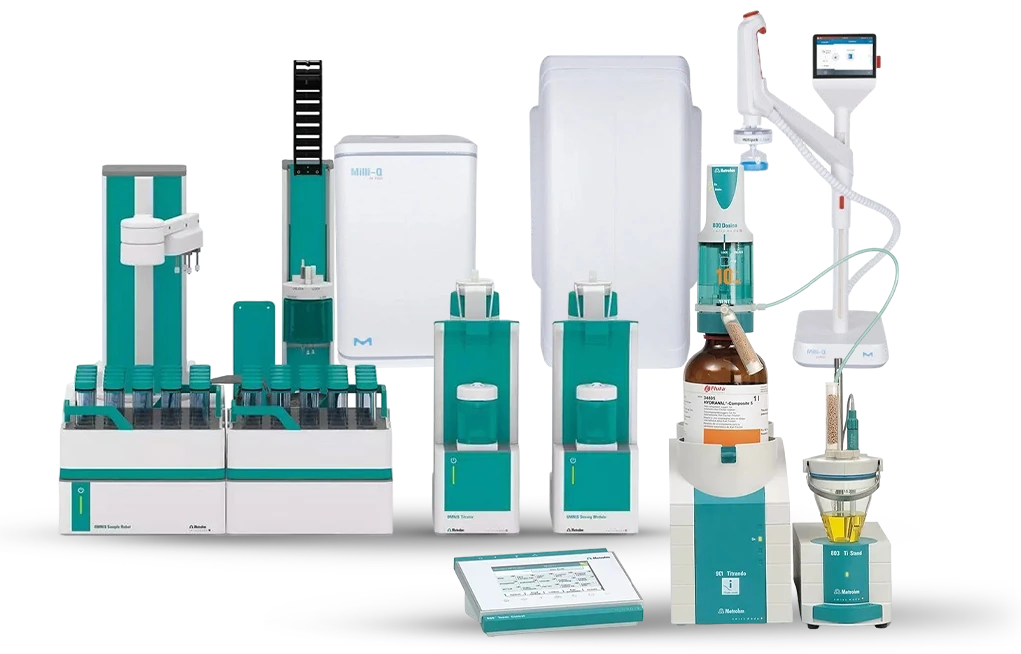
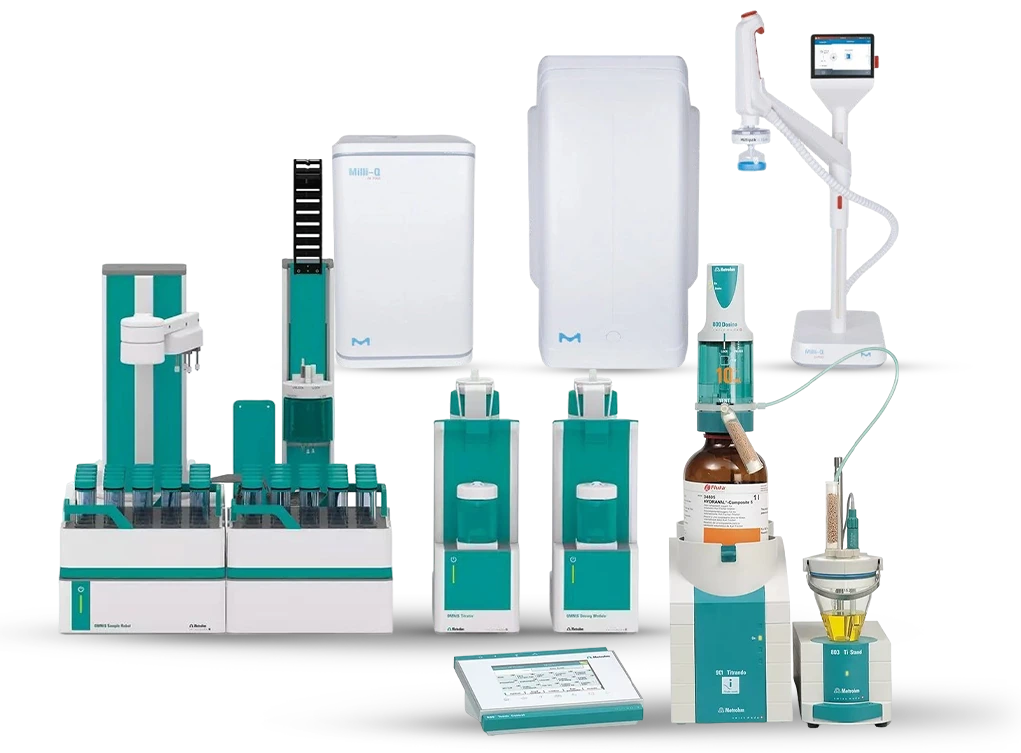
Use the new transparent hero collage and fit it inside the hero

diff --git a/public/build/assets/app-CL0WvxPk.css b/public/build/assets/app-CL0WvxPk.css
@@ -1,0 +1,1 @@
+:root{--red:#e81c1c;--red-dark:#b91414;--pink:#e46368;--pink-deep:#b8333a;--pink-soft:#fbe0e1;--navy:#222444;--royal:#1d3a72;--green:#278007;--amber:#ffbd59;--blush:#fff5f5;--tint:#ffeded;--line:#f3dada;--field-line:#d9d9e3;--ink:#2b2b2b;--muted:#556;--ink-on-dark:#e6e9f5;--radius-lg:28px;--radius-md:22px;--radius-sm:14px;--shadow:0 6px 24px #2224440f;--shadow-sm:0 4px 16px #2224440d;--shadow-red:0 12px 28px #e81c1c26}*{box-sizing:border-box}html{scroll-behavior:smooth;scroll-padding-top:96px}body{background:var(--blush);color:var(--ink);-webkit-font-smoothing:antialiased;margin:0;font-family:Plus Jakarta Sans,system-ui,sans-serif;line-height:1.5}img{max-width:100%;display:block}a{color:var(--navy);text-decoration:none}a:hover{color:var(--red)}h1,h2,h3,p{margin:0}::selection{background:var(--pink-soft);color:var(--navy)}a:focus-visible,button:focus-visible{outline:3px solid var(--navy);outline-offset:2px}.hero a:focus-visible,.hero button:focus-visible,.why a:focus-visible,.cta a:focus-visible,.foot a:focus-visible{outline-color:var(--amber)}.wrap{width:100%;max-width:1360px}.page{flex-direction:column;align-items:center;gap:24px;padding:20px 24px;display:flex}.stack{flex-direction:column;gap:24px;display:flex}.center{text-align:center}.card{border-radius:var(--radius-lg);box-shadow:var(--shadow);background:#fff}.btn{border:2px solid var(--red);cursor:pointer;border-radius:999px;justify-content:center;align-items:center;gap:8px;min-height:48px;padding:13px 28px;font-size:15px;font-weight:700;transition:transform .15s,background .15s;display:inline-flex}.btn:hover{transform:translateY(-2px)}.btn:active{transform:translateY(0)}.btn-red{background:var(--red);color:#fff}.btn-red:hover{background:var(--red-dark);color:#fff}.btn-ghost{color:var(--red);background:#fff}.btn-ghost:hover{background:var(--tint);color:var(--red-dark)}.btn-white{color:var(--red);background:#fff;border-color:#fff}.btn-white:hover{color:var(--red-dark)}.eyebrow{letter-spacing:1.5px;color:var(--red-dark);text-transform:uppercase;font-size:13px;font-weight:800}.eyebrow-gold{color:var(--amber)}.sec-title{color:var(--navy);letter-spacing:-.6px;font-size:clamp(26px,3.4vw,38px);font-weight:800;line-height:1.15}.sec-head{text-align:center;flex-direction:column;align-items:center;gap:10px;display:flex}.sec-head p{max-width:620px;color:var(--muted)}.sub{color:var(--navy);font-size:20px;font-weight:800}.chips{flex-wrap:wrap;gap:10px;margin-top:14px;display:flex}.chip{border:1px solid var(--line);color:var(--navy);background:#fff;border-radius:999px;align-items:center;gap:8px;padding:10px 18px;font-size:14px;font-weight:600;display:flex}.chip:before{content:"";background:var(--pink);border-radius:50%;width:8px;height:8px}.chip.red:before{background:var(--red)}.badge{background:var(--red-dark);color:#fff;letter-spacing:1px;border-radius:999px;padding:4px 10px;font-size:11px;font-weight:800}.grid{gap:20px;display:grid}.sec{flex-direction:column;gap:32px;padding:48px 36px;display:flex}.brand{align-items:center;gap:12px;display:flex}.hexes{gap:4px;display:flex}.hex{clip-path:polygon(50% 0,100% 25%,100% 75%,50% 100%,0 75%,0 25%);background:var(--red);color:#fff;justify-content:center;align-items:center;width:34px;height:38px;font-family:Georgia,Times New Roman,serif;font-size:16px;font-weight:700;display:flex}.hex i{clip-path:polygon(50% 0,100% 25%,100% 75%,50% 100%,0 75%,0 25%);width:30px;height:34px;color:var(--green);background:#fff;justify-content:center;align-items:center;font-style:normal;display:flex}.brand-txt{flex-direction:column;line-height:1.05;display:flex}.brand-txt b{color:var(--green);letter-spacing:.8px;font-size:12px;font-weight:800}.brand-txt span{color:var(--navy);letter-spacing:1.4px;font-size:10px;font-weight:700}header.top{flex-wrap:wrap;justify-content:space-between;align-items:center;gap:16px;padding:14px 28px;display:flex}nav.main{flex-wrap:wrap;gap:6px 30px;font-size:14px;font-weight:600;display:flex}nav.main a{border-bottom:2px solid #0000;padding:8px 0;transition:border-color .15s,color .15s}nav.main a:hover{border-color:var(--pink)}nav.main a[aria-current]{color:var(--red-dark);border-color:var(--red)}.menu-btn{background:var(--tint);cursor:pointer;width:44px;height:44px;color:var(--navy);border:0;border-radius:12px;justify-content:center;align-items:center;display:none}.menu-btn .i-close,.menu-btn[aria-expanded=true] .i-open{display:none}.menu-btn[aria-expanded=true] .i-close{display:block}footer.foot{background:var(--navy);color:var(--ink-on-dark);border-radius:var(--radius-lg);flex-direction:column;gap:30px;padding:44px 36px 24px;display:flex}.foot-grid{grid-template-columns:repeat(auto-fit,minmax(220px,1fr));gap:32px;display:grid}.foot h4{color:#fff;margin:0 0 12px;font-size:15px}.foot a{color:var(--ink-on-dark)}.foot a:hover{color:var(--amber)}.foot ul{flex-direction:column;gap:8px;margin:0;padding:0;font-size:14px;list-style:none;display:flex}.foot .about{max-width:320px;margin-top:12px;font-size:14px}.foot .hex i{background:#fff}.copy{border-top:1px solid #ffffff24;flex-wrap:wrap;justify-content:space-between;gap:10px;padding-top:18px;font-size:13px;display:flex}.hero{border-radius:var(--radius-lg);min-height:560px;color:var(--ink);box-shadow:var(--shadow);background:#fff;grid-template-columns:minmax(0,1.05fr) minmax(0,.95fr);align-items:center;gap:24px;padding:56px;display:grid;position:relative;overflow:hidden}.hero-in{z-index:1;flex-direction:column;gap:22px;max-width:620px;display:flex;position:relative}.hero h1{letter-spacing:-1.5px;color:var(--navy);font-size:clamp(38px,5.2vw,60px);font-weight:800;line-height:1.04}.hero p{max-width:540px;color:var(--ink);font-size:19px}.hero-cta{flex-wrap:wrap;gap:14px;display:flex}.hero-dealer{width:min(320px,100%);height:auto;margin-top:6px}.hero-art{background:url(/images/hero/hero-shape.svg) 100%/contain no-repeat;align-self:stretch;min-height:460px;margin:-56px -56px -56px 0;position:relative}.hero-art img{max-width:none;position:absolute}.art-hero{filter:drop-shadow(0 18px 22px #2224444d);width:104%;height:auto;bottom:8%;left:-8%}.cats{grid-template-columns:repeat(auto-fit,minmax(240px,1fr))}.cat{border:1px solid var(--line);border-radius:var(--radius-md);box-shadow:var(--shadow-sm);color:var(--ink);background:#fff;flex-direction:column;transition:transform .2s,box-shadow .2s,border-color .2s;display:flex;overflow:hidden}.cat:hover{box-shadow:var(--shadow-red);border-color:var(--pink);color:var(--ink);transform:translateY(-4px)}.cat .ph{background:var(--tint);height:170px}.cat .ph img{object-fit:cover;width:100%;height:100%}.cat .tx{flex-direction:column;flex:1;gap:8px;padding:20px;display:flex}.cat h3{color:var(--navy);font-size:19px;font-weight:700}.cat p{color:var(--muted);font-size:14px}.cat .more{color:var(--red-dark);align-items:center;gap:6px;margin-top:auto;padding-top:6px;font-size:14px;font-weight:700;display:flex}.apps{background:linear-gradient(135deg,#fff 0%,var(--tint) 100%)}.app-layout{grid-template-columns:minmax(0,1.9fr) minmax(280px,1fr);align-items:stretch;gap:28px;display:grid}.app-grid{grid-template-columns:repeat(auto-fit,minmax(210px,1fr));gap:16px;margin:16px 0 0;padding:0;list-style:none;display:grid}.app-card{border:1px solid var(--line);box-shadow:var(--shadow-sm);background:#fff;border-radius:20px;flex-direction:column;gap:8px;padding:22px;transition:transform .2s,border-color .2s,box-shadow .2s;display:flex}.app-card:hover{border-color:var(--pink);box-shadow:var(--shadow-red);transform:translateY(-3px)}.app-ic{background:var(--pink-soft);width:52px;height:52px;color:var(--red);border-radius:16px;justify-content:center;align-items:center;margin-bottom:6px;display:flex}.app-card h4{color:var(--navy);margin:0;font-size:17px;font-weight:700;line-height:1.25}.app-card p{color:var(--muted);font-size:14px}.ind-panel{background:linear-gradient(160deg,var(--navy) 0%,var(--royal) 100%);color:#fff;border-radius:var(--radius-md);flex-direction:column;gap:18px;padding:30px 26px;display:flex}.ind-panel h3{color:#fff;font-size:20px;font-weight:800}.ind-list{flex-direction:column;flex:1;margin:0;padding:0;list-style:none;display:flex}.ind-list li{border-bottom:1px solid #ffffff24;align-items:center;gap:14px;padding:13px 0;font-size:15px;font-weight:600;display:flex}.ind-list li:last-child{border-bottom:0}.ind-list svg{color:var(--amber);flex:none}.ind-panel .btn{align-self:flex-start}.marquee{overflow:hidden;-webkit-mask-image:linear-gradient(90deg,#0000,#000 8% 92%,#0000);mask-image:linear-gradient(90deg,#0000,#000 8% 92%,#0000)}.marquee-track{align-items:center;width:max-content;margin:0;padding:0;list-style:none;display:flex}.marquee-track li{flex:none;align-items:center;margin-right:72px;display:flex}.marquee-track.marquee-static{flex-wrap:wrap;justify-content:center;gap:24px 0;width:auto}.marquee-track img{width:auto;max-width:none;height:52px}.marquee.is-scrolling .marquee-track{animation:40s linear infinite marquee}.marquee.is-scrolling:hover .marquee-track,.marquee.is-scrolling:focus-within .marquee-track{animation-play-state:paused}@keyframes marquee{to{transform:translate(-50%)}}.why{background:linear-gradient(120deg,var(--navy) 0%,var(--royal) 100%);color:#fff}.why .sec-title{color:#fff}.why .sec-head p{color:var(--ink-on-dark)}.why-grid{grid-template-columns:repeat(auto-fit,minmax(200px,1fr))}.why-item{background:#ffffff14;border:1px solid #ffffff29;border-radius:20px;flex-direction:column;gap:10px;padding:24px;display:flex}.why-item svg{stroke:var(--amber)}.why-item h3{font-size:17px;font-weight:700}.why-item p{color:var(--ink-on-dark);font-size:14px}.hist{grid-template-columns:repeat(auto-fit,minmax(320px,1fr));align-items:center;gap:40px;display:grid}.hist img{border-radius:var(--radius-md);object-fit:cover;width:100%;max-height:420px}.hist .txt{flex-direction:column;gap:16px;display:flex}.hist p{color:var(--ink);font-size:16px;line-height:1.7}.stats{flex-wrap:wrap;gap:28px;margin-top:6px;display:flex}.stat b{color:var(--red);font-size:38px;font-weight:800;line-height:1.1;display:block}.stat span{color:var(--muted);font-size:14px}.cta{background:linear-gradient(110deg,var(--red) 0%,var(--red-dark) 100%);color:#fff;border-radius:var(--radius-lg);flex-wrap:wrap;justify-content:space-between;align-items:center;gap:24px;padding:44px 48px;display:flex}.cta h2{font-size:clamp(24px,3vw,32px);font-weight:800}.cta p{max-width:520px;margin-top:6px}.cta-actions{flex-wrap:wrap;gap:14px;display:flex}.cta .btn-ghost{color:#fff;background:0 0;border-color:#fff}.cta .btn-ghost:hover{color:var(--red-dark);background:#fff}.page-hero{border-radius:var(--radius-lg);background:linear-gradient(135deg,#fff 0%,var(--tint) 100%);box-shadow:var(--shadow);flex-direction:column;gap:14px;padding:56px 48px;display:flex}.page-hero h1{color:var(--navy);letter-spacing:-1.2px;font-size:clamp(34px,5vw,54px);font-weight:800;line-height:1.08}.page-hero p{max-width:640px;color:var(--ink);font-size:18px}.crumb{color:var(--pink-deep);font-size:13px;font-weight:700}.vm{grid-template-columns:repeat(auto-fit,minmax(300px,1fr));gap:20px;display:grid}.vm>div{border:1px solid var(--line);border-radius:var(--radius-md);background:#fff;flex-direction:column;gap:10px;padding:28px;display:flex}.vm h3{letter-spacing:1.5px;color:var(--red-dark);font-size:13px;font-weight:800}.vm p{line-height:1.7}.values{grid-template-columns:repeat(3,minmax(0,1fr));gap:16px;margin:0;padding:0;list-style:none;display:grid}.values>li{background:var(--blush);border:1px solid var(--line);border-radius:18px;flex-direction:column;gap:8px;padding:22px;display:flex}.values b{color:var(--navy);font-size:18px;font-weight:800}.values span{color:var(--muted);font-size:14px;line-height:1.6}.split{grid-template-columns:repeat(auto-fit,minmax(300px,1fr));align-items:center;gap:36px;display:grid}.split img{border-radius:var(--radius-md);object-fit:cover;width:100%;max-height:440px}.split p{margin-bottom:14px;line-height:1.75}.psec{grid-template-columns:minmax(0,1fr) minmax(0,1.1fr);align-items:center;gap:36px;display:grid}.psec.rev>:first-child{order:2}.psec img{border-radius:var(--radius-md);object-fit:cover;background:var(--tint);width:100%;height:300px}.psec h2{color:var(--navy);letter-spacing:-.5px;margin-bottom:10px;font-size:30px;font-weight:800}.psec p{color:var(--ink);margin-bottom:14px;line-height:1.7}.ticks{flex-direction:column;gap:6px;margin:0 0 18px;padding:0;font-size:15px;list-style:none;display:flex}.ticks li:before{content:"";background:var(--pink);border-radius:50%;width:8px;height:8px;margin-right:10px;display:inline-block}.cgrid{grid-template-columns:repeat(auto-fit,minmax(280px,1fr));align-items:start;gap:24px;display:grid}.cinfo{flex-direction:column;gap:16px;display:flex}.crow{background:var(--blush);border-radius:18px;align-items:flex-start;gap:16px;padding:18px;display:flex}.crow .ic{background:var(--pink-soft);border-radius:50%;flex:none;justify-content:center;align-items:center;width:46px;height:46px;display:flex}.crow b{color:var(--navy);display:block}.crow span,.crow a{font-size:15px}form.quote{flex-direction:column;gap:16px;display:flex}.field{flex-direction:column;gap:6px;display:flex}.field label{color:var(--navy);font-size:13px;font-weight:700}.field input,.field select,.field textarea{font:inherit;border:1px solid var(--field-line);border-radius:var(--radius-sm);color:var(--ink);background:#fff;width:100%;padding:12px 14px;font-size:15px}.field textarea{resize:vertical;min-height:130px}.field input:focus,.field select:focus,.field textarea:focus{outline:3px solid var(--navy);outline-offset:1px;border-color:var(--red)}.row2{grid-template-columns:repeat(auto-fit,minmax(200px,1fr));gap:16px;display:grid}.mapbox{border-radius:var(--radius-md);border:1px solid var(--line);min-height:260px;overflow:hidden}.mapbox iframe{border:0;width:100%;height:100%;min-height:260px}.split .sec-title{margin:8px 0 16px}.links-row{flex-wrap:wrap;gap:12px;margin-top:6px;display:flex}.facts{gap:14px;margin:0;padding:0;list-style:none;display:grid}.facts li{background:var(--blush);border:1px solid var(--line);border-radius:20px;flex-direction:column;gap:2px;padding:20px 22px;display:flex}.facts b{color:var(--red);font-size:28px;font-weight:800;line-height:1.15}.facts span{color:var(--muted);font-size:14px}.figure{margin:0}.figure img{object-fit:contain;border-radius:var(--radius-md);width:auto;max-width:100%;height:auto;max-height:640px;margin-inline:auto}.figure figcaption{color:var(--muted);text-align:center;margin-top:10px;font-size:13px}.timeline{border-left:2px solid var(--pink-soft);flex-direction:column;gap:20px;margin:20px 0 0;padding:0 0 0 22px;list-style:none;display:flex}.timeline li{flex-direction:column;gap:2px;display:flex;position:relative}.timeline li:before{content:"";background:var(--red);width:12px;height:12px;box-shadow:0 0 0 4px var(--pink-soft);border-radius:50%;position:absolute;top:6px;left:-29px}.timeline b{color:var(--navy);font-size:18px;font-weight:800}.timeline span{color:var(--ink);font-size:15px}.caps{grid-template-columns:repeat(auto-fit,minmax(240px,1fr));gap:20px;margin:0;padding:0;list-style:none;display:grid}.cap{border:1px solid var(--line);box-shadow:var(--shadow-sm);background:#fff;border-radius:20px;flex-direction:column;gap:10px;padding:24px;display:flex}.cap-ic{background:var(--pink-soft);width:52px;height:52px;color:var(--red);border-radius:16px;justify-content:center;align-items:center;display:flex}.cap h3{color:var(--navy);font-size:18px;font-weight:700;line-height:1.25}.cap p{color:var(--muted);font-size:14px}.logo-grid{grid-template-columns:repeat(auto-fit,minmax(170px,1fr));gap:14px;margin:0;padding:0;list-style:none;display:grid}.logo-grid li{border:1px solid var(--line);background:#fff;border-radius:18px;justify-content:center;align-items:center;min-height:96px;padding:18px;display:flex}.logo-grid img{width:auto;max-width:100%;height:auto;max-height:44px}.commit{background:linear-gradient(135deg,#fff 0%,var(--tint) 100%)}.commit .sec-head p{max-width:720px;color:var(--ink);font-size:18px}.visually-hidden{clip:rect(0,0,0,0);white-space:nowrap;border:0;width:1px;height:1px;margin:-1px;padding:0;position:absolute;overflow:hidden}.toolbar{flex-direction:column;gap:16px;width:100%;max-width:900px;margin-inline:auto;display:flex}.search-box{border:1px solid var(--field-line);height:54px;color:var(--muted);background:#fff;border-radius:999px;align-items:center;gap:10px;padding:0 20px;display:flex}.search-box:focus-within{border-color:var(--red);outline:3px solid var(--navy);outline-offset:2px}.search-box input{min-width:0;font:inherit;color:var(--ink);background:0 0;border:0;outline:0;flex:1;font-size:16px}.chip-row{flex-wrap:wrap;justify-content:center;gap:10px;display:flex}.filter-chip{border:1px solid var(--line);color:var(--navy);font:inherit;cursor:pointer;background:#fff;border-radius:999px;min-height:44px;padding:10px 18px;font-size:14px;font-weight:600;transition:background .15s,color .15s,border-color .15s}.filter-chip:hover{border-color:var(--pink);background:var(--tint)}.filter-chip[aria-pressed=true]{background:var(--red);border-color:var(--red);color:#fff}.status{text-align:center;color:var(--muted);min-height:1.4em;font-size:14px}.empty{text-align:center;color:var(--muted);padding:12px}[hidden]{display:none!important}.cat-grid{grid-template-columns:repeat(auto-fit,minmax(300px,1fr))}.pcat{border:1px solid var(--line);border-radius:var(--radius-md);box-shadow:var(--shadow-sm);background:#fff;flex-direction:column;display:flex;overflow:hidden}.pcat .ph{background:var(--tint);height:190px}.pcat .ph img{object-fit:cover;width:100%;height:100%}.pcat .tx{flex-direction:column;flex:1;gap:12px;padding:22px;display:flex}.pcat h3{color:var(--navy);font-size:21px;font-weight:800}.pcat p{color:var(--ink);font-size:15px}.pcat .uses{color:var(--muted);font-size:14px}.pcat .uses b{color:var(--navy)}.pcat .btn{align-self:flex-start;margin-top:auto}.acard-grid{grid-template-columns:repeat(auto-fit,minmax(280px,1fr))}.icard-grid{grid-template-columns:repeat(auto-fit,minmax(300px,1fr))}.acard,.icard{border:1px solid var(--line);box-shadow:var(--shadow-sm);background:#fff;border-radius:20px;flex-direction:column;gap:10px;padding:24px;transition:transform .2s,border-color .2s,box-shadow .2s;display:flex}.acard:hover,.icard:hover{border-color:var(--pink);box-shadow:var(--shadow-red);transform:translateY(-3px)}.acard h3,.icard h3{color:var(--navy);font-size:18px;font-weight:700;line-height:1.25}.acard p,.icard p{color:var(--muted);font-size:14px;line-height:1.6}.tags{flex-wrap:wrap;gap:8px;margin:2px 0 4px;padding:0;list-style:none;display:flex}.tags a{background:var(--pink-soft);color:var(--navy);border-radius:999px;padding:5px 12px;font-size:12px;font-weight:700;display:inline-block}.tags a:hover{background:var(--red);color:#fff}.acard .more,.icard .more{color:var(--red-dark);align-items:center;gap:6px;margin-top:auto;padding-top:6px;font-size:14px;font-weight:700;display:flex}.acard .more:hover,.icard .more:hover{color:var(--red)}.pcat,.acard,.icard{scroll-margin-top:96px}.contact-cards{grid-template-columns:repeat(auto-fit,minmax(250px,1fr));gap:16px;margin:0;padding:0;list-style:none;display:grid}.contact-cards .crow{background:var(--blush);border:1px solid var(--line);border-radius:20px;padding:22px}.contact-cards .crow b{color:var(--navy);margin-bottom:2px;display:block}.contact-cards .crow a,.contact-cards .crow address{color:var(--ink);word-break:break-word;font-size:15px;font-style:normal}.contact-cards .crow a{color:var(--red-dark);font-weight:600}.contact-cards .crow address{margin-bottom:6px;display:block}.enquiry-form{width:100%;max-width:860px;margin-inline:auto}.req{color:var(--red-dark);font-weight:800}.hp{width:1px;height:1px;position:absolute;left:-10000px;overflow:hidden}.field .err{color:var(--red-dark);font-size:13px;font-weight:600}.field input[aria-invalid=true],.field select[aria-invalid=true],.field textarea[aria-invalid=true]{border-color:var(--red-dark);background:#fff5f5}.check{color:var(--ink);cursor:pointer;align-items:flex-start;gap:12px;font-size:14px;font-weight:500;display:flex}.check input{width:22px;height:22px;accent-color:var(--red);flex:none;margin-top:1px}.check a{color:var(--red-dark);font-weight:700;text-decoration:underline}.fine{color:var(--muted);font-size:13px}.alert{border-radius:18px;flex-direction:column;gap:6px;width:100%;max-width:860px;margin-inline:auto;padding:18px 22px;font-size:15px;display:flex}.alert ul{margin:4px 0 0;padding-left:20px}.alert-success{border:1px solid var(--green);color:#1b4f06;background:#eaf6e5}.alert-error{background:var(--blush);border:1px solid var(--red-dark);color:#7a0d0d}.alert:focus{outline:3px solid var(--navy);outline-offset:2px}.prose{flex-direction:column;gap:14px;max-width:760px;margin-inline:auto;line-height:1.7;display:flex}.prose ul{flex-direction:column;gap:8px;margin:0;padding-left:22px;display:flex}.prose a{color:var(--red-dark);font-weight:700}.contact-layout{grid-template-columns:minmax(280px,1fr) minmax(0,1.7fr);align-items:start;gap:36px;display:grid}.sec-head.left{text-align:left;align-items:flex-start}.form-col{flex-direction:column;gap:24px;min-width:0;display:flex}.form-col .enquiry-form,.form-col .alert{max-width:none;margin-inline:0}.details-col{flex-direction:column;order:-1;gap:20px;display:flex}.details-col h2{color:var(--navy);font-size:22px;font-weight:800}.details-col .contact-cards{grid-template-columns:1fr;gap:24px}.details-col .contact-cards .crow{background:0 0;border:0;border-radius:0;padding:0}@media (width<=860px){.contact-layout{grid-template-columns:1fr}.details-col{order:0}.values{grid-template-columns:repeat(2,minmax(0,1fr))}.app-layout{grid-template-columns:1fr}.menu-btn{margin-left:auto;display:flex}header.top{position:static}nav.main{opacity:0;visibility:hidden;flex-direction:column;order:3;gap:0;width:100%;max-height:0;transition:max-height .25s,opacity .2s,visibility 0s linear .25s;overflow:hidden}nav.main.open{opacity:1;visibility:visible;max-height:420px;transition:max-height .25s,opacity .2s,visibility}nav.main a{border-bottom:1px solid var(--line);padding:12px 4px}header.top .top-quote{display:none}nav.main .nav-quote{color:#fff;border-bottom:0;justify-content:center;margin:14px 0 4px;padding:14px 20px;display:flex}.hero{grid-template-columns:1fr;gap:8px;min-height:0;padding:36px 24px 0}.hero-art{background-position:100% 100%;min-height:300px;margin:0 -24px}.art-hero{width:96%;bottom:6%;left:2%}.sec{padding:36px 20px}.cta{padding:32px 24px}.psec{grid-template-columns:1fr}.psec.rev>:first-child{order:0}.page-hero{padding:36px 24px}}@media (width<=480px){.values{grid-template-columns:1fr}.app-grid{grid-template-columns:repeat(2,minmax(0,1fr));gap:12px}.app-card{padding:16px}.app-card h4{font-size:15px}.app-card p{font-size:13px}.page{padding:12px}header.top{padding:12px 16px}header.top .brand img{height:24px}.hero p{font-size:17px}}.mbar{display:none}.to-top{z-index:30;background:var(--red);color:#fff;cursor:pointer;width:48px;height:48px;box-shadow:var(--shadow-red);opacity:0;visibility:hidden;border:0;border-radius:50%;justify-content:center;align-items:center;transition:opacity .2s,transform .2s,visibility 0s linear .2s;display:flex;position:fixed;bottom:20px;right:20px;transform:translateY(12px)}.to-top.show{opacity:1;visibility:visible;transition:opacity .2s,transform .2s,visibility;transform:none}.to-top:hover{background:var(--red-dark)}.reveal{opacity:0;transition:opacity .6s,transform .6s;transform:translateY(24px)}.reveal.in{opacity:1;transform:none}@media (width<=860px){body{padding-bottom:76px}.mbar{z-index:40;padding:10px 12px calc(10px + env(safe-area-inset-bottom));background:#fff;gap:10px;display:flex;position:fixed;bottom:0;left:0;right:0;box-shadow:0 -6px 20px #2224441f}.mbar a{border-radius:999px;flex:1;justify-content:center;align-items:center;gap:8px;min-height:48px;font-size:15px;font-weight:700;display:flex}.mbar-call{border:2px solid var(--navy);color:var(--navy);flex:0 0 34%}.mbar-quote{background:var(--red);color:#fff;border:2px solid var(--red)}.mbar-quote:hover{background:var(--red-dark);color:#fff}.to-top{bottom:90px;right:14px}}@media (prefers-reduced-motion:reduce){html{scroll-behavior:auto}.btn,.cat,.app-card,nav.main,nav.main a,.to-top{transition:none}.reveal{opacity:1;transition:none;transform:none}.marquee.is-scrolling .marquee-track{animation:none}}.dealer-grid{grid-template-columns:repeat(auto-fit,minmax(280px,1fr))}.dealer-card{border:1px solid var(--line);border-radius:var(--radius-md);box-shadow:var(--shadow-sm);background:#fff;flex-direction:column;align-items:flex-start;gap:14px;padding:26px;display:flex}.dealer-card img{width:auto;height:52px}.dealer-card p{color:var(--muted);font-size:15px}.dealer-card .btn{margin-top:auto}.maker-h{margin:24px 0 12px}.maker-link{margin:16px 0 0;font-size:14px;font-weight:700}.maker-grid .cat .ph{background:#fff}.maker-grid{grid-template-columns:repeat(4,1fr)}@media (width<=1000px){.maker-grid{grid-template-columns:repeat(2,1fr)}}@media (width<=560px){.maker-grid{grid-template-columns:1fr}}.client-marquee .marquee-track li{border:1px solid var(--line);border-radius:var(--radius-sm);background:#fff;justify-content:center;min-width:110px;height:96px;margin-right:16px;padding:12px 16px}.client-marquee .marquee-track img{object-fit:contain;width:auto;max-width:210px;height:72px}.client-marquee.is-scrolling .marquee-track{animation-duration:70s}.brand img{width:auto;max-width:100%;height:38px}.foot-logo{border-radius:var(--radius-sm);background:#fff;padding:14px 18px;display:inline-block}.foot-logo img{width:200px;height:auto}.dealer-card img{width:auto}.nav-quote{display:none}.client-marquee .client-name{letter-spacing:-.3px;color:var(--navy);white-space:nowrap;font-size:20px;font-weight:800;line-height:1.1}.cat .ph img.contain,.pcat .ph img.contain{object-fit:contain;background:#fff}

diff --git a/resources/css/app.css b/resources/css/app.css
@@ -113,7 +113,7 @@ footer.foot{background:var(--navy);color:var(--ink-on-dark);border-radius:var(--
 .hero-dealer{width:min(320px,100%);height:auto;margin-top:6px}
 .hero-art{position:relative;align-self:stretch;min-height:460px;margin:-56px -56px -56px 0;background:url('/images/hero/hero-shape.svg') right center/contain no-repeat}
 .hero-art img{position:absolute;max-width:none}
-.art-hero{left:-6%;bottom:7%;width:112%;height:auto;filter:drop-shadow(0 18px 22px rgba(34,36,68,.30))}
+.art-hero{left:-8%;bottom:8%;width:104%;height:auto;filter:drop-shadow(0 18px 22px rgba(34,36,68,.30))}
 
 .cats{grid-template-columns:repeat(auto-fit,minmax(240px,1fr))}
 .cat{border:1px solid var(--line);border-radius:var(--radius-md);overflow:hidden;background:#fff;display:flex;flex-direction:column;box-shadow:var(--shadow-sm);transition:transform .2s,box-shadow .2s,border-color .2s;color:var(--ink)}

diff --git a/resources/views/home.blade.php b/resources/views/home.blade.php
@@ -34,7 +34,7 @@
     <img class="hero-dealer" src="{{ asset('images/logos/authorised-dealer.svg') }}" alt="Authorised Merck and Metrohm Dealer" width="320" height="69">
   </div>
   <div class="hero-art" aria-hidden="true">
-    <img class="art-hero" src="{{ asset('images/hero/hero.webp') }}" alt="" width="1021" height="654">
+    <img class="art-hero" src="{{ asset('images/hero/hero.webp') }}" alt="" width="1021" height="753">
   </div>
 </section>
 
